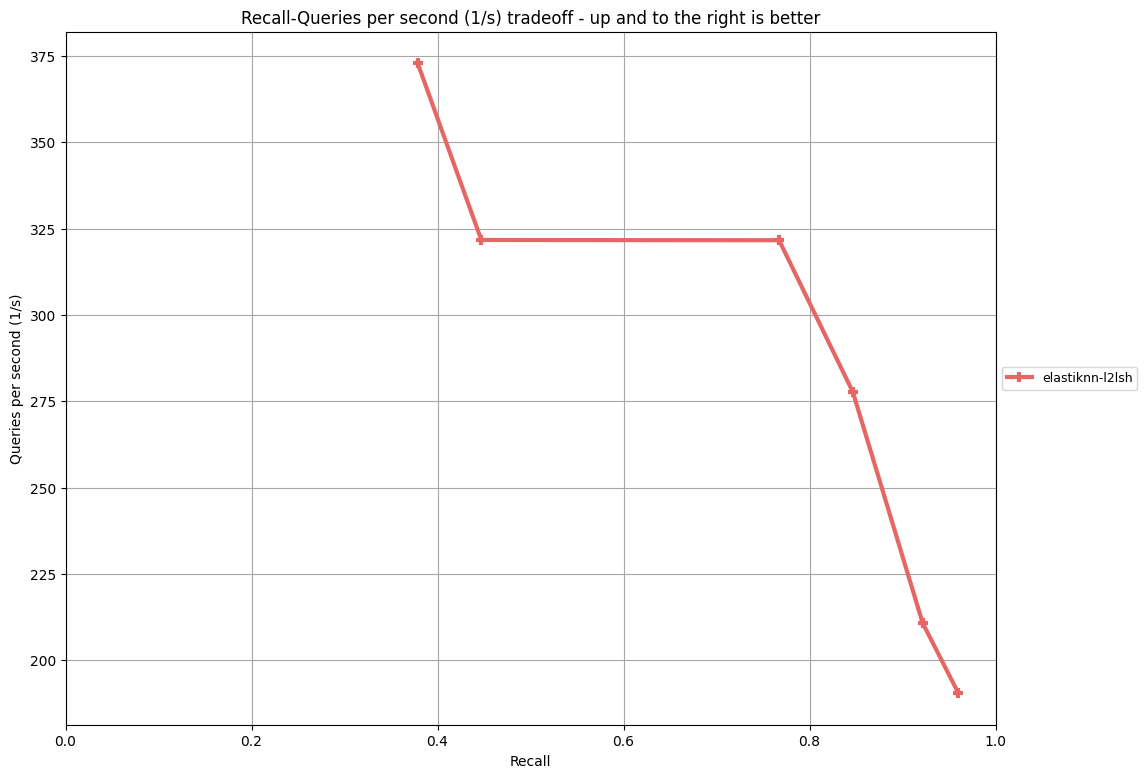
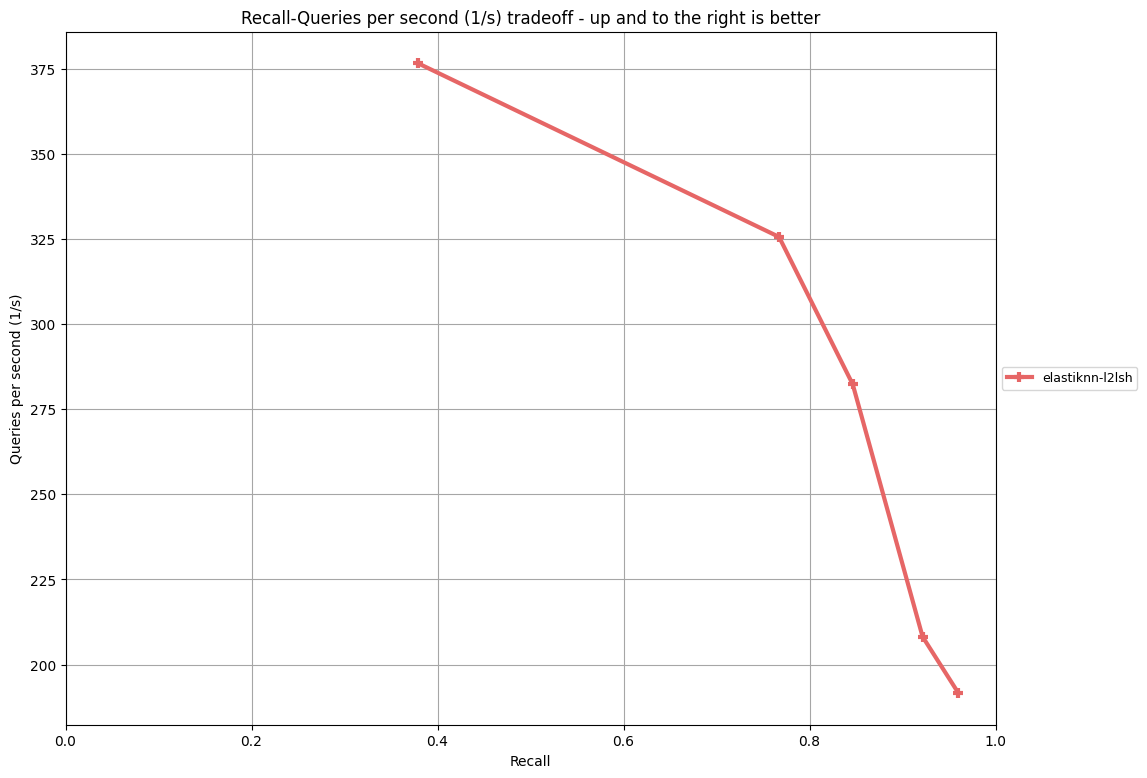
Benchmarks

diff --git a/docs/pages/performance/fashion-mnist/results.md b/docs/pages/performance/fashion-mnist/results.md
@@ -1,10 +1,10 @@
 |Model|Parameters|Recall|Queries per Second|
 |---|---|---|---|
-|eknn-l2lsh|L=100 k=4 w=1024 candidates=500 probes=0|0.379|372.874|
-|eknn-l2lsh|L=100 k=4 w=1024 candidates=1000 probes=0|0.447|321.689|
-|eknn-l2lsh|L=100 k=4 w=1024 candidates=500 probes=3|0.635|293.853|
-|eknn-l2lsh|L=100 k=4 w=1024 candidates=1000 probes=3|0.717|255.156|
-|eknn-l2lsh|L=100 k=4 w=2048 candidates=500 probes=0|0.767|321.623|
-|eknn-l2lsh|L=100 k=4 w=2048 candidates=1000 probes=0|0.847|277.681|
-|eknn-l2lsh|L=100 k=4 w=2048 candidates=500 probes=3|0.922|210.812|
-|eknn-l2lsh|L=100 k=4 w=2048 candidates=1000 probes=3|0.960|190.458|
+|eknn-l2lsh|L=100 k=4 w=1024 candidates=500 probes=0|0.379|376.635|
+|eknn-l2lsh|L=100 k=4 w=1024 candidates=1000 probes=0|0.447|320.602|
+|eknn-l2lsh|L=100 k=4 w=1024 candidates=500 probes=3|0.635|289.510|
+|eknn-l2lsh|L=100 k=4 w=1024 candidates=1000 probes=3|0.717|259.962|
+|eknn-l2lsh|L=100 k=4 w=2048 candidates=500 probes=0|0.767|325.618|
+|eknn-l2lsh|L=100 k=4 w=2048 candidates=1000 probes=0|0.846|282.308|
+|eknn-l2lsh|L=100 k=4 w=2048 candidates=500 probes=3|0.922|208.195|
+|eknn-l2lsh|L=100 k=4 w=2048 candidates=1000 probes=3|0.960|191.591|
